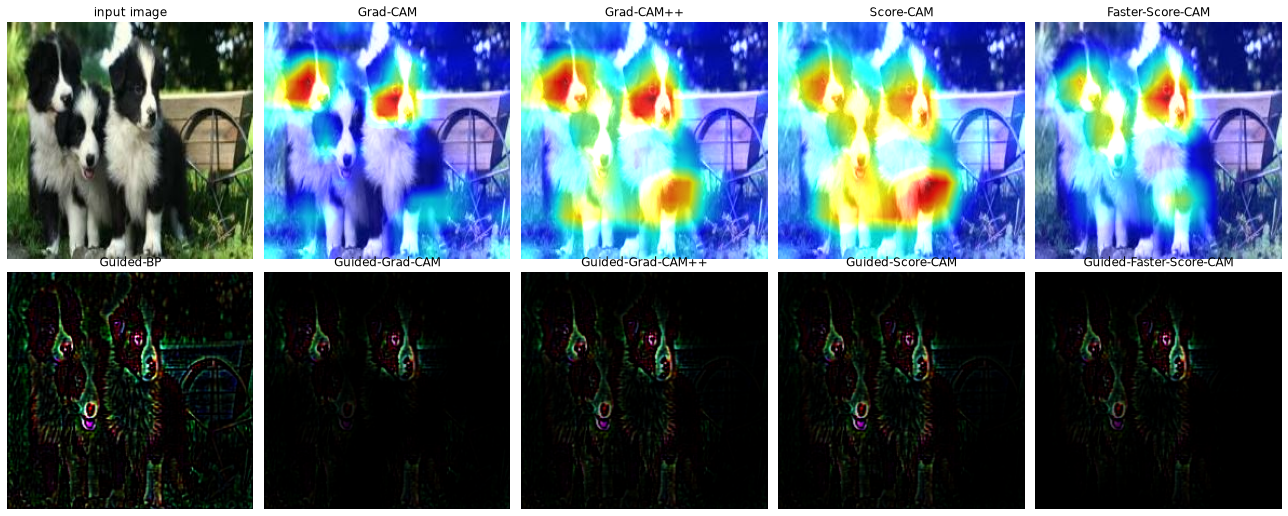
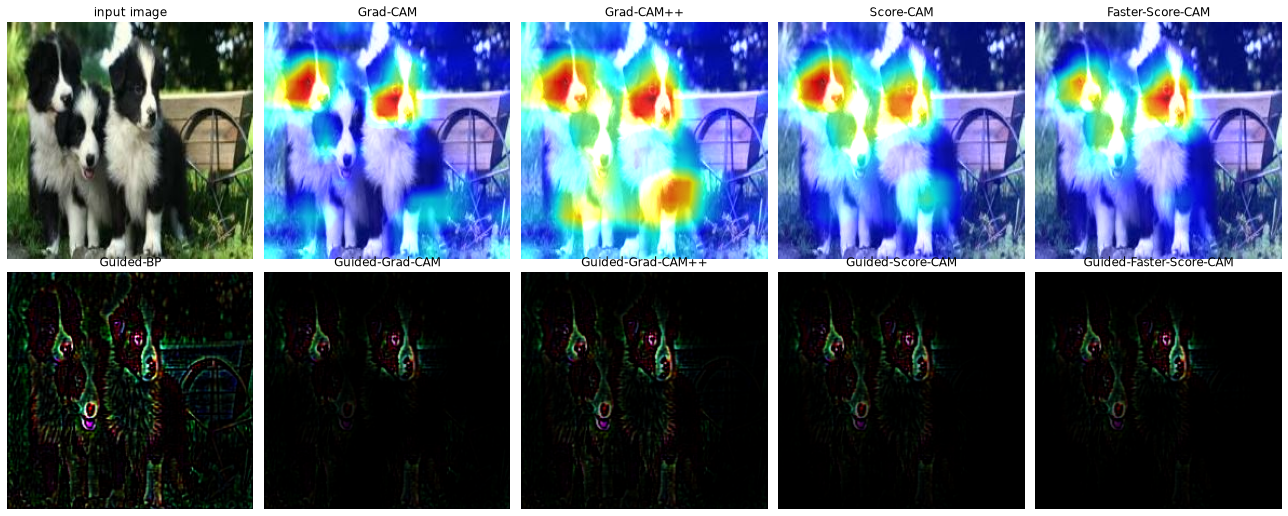
fix: Score-CAM weighted by a double softmax
`weight_mode="reference"` is meant to reproduce the authors' released code,
which computes its channel weights as softmax(logits)[target] -- the target
class probability under each masked input. A Torch model emits logits, so that
is one softmax.

A Keras classifier ends in a softmax, so applying our own on top of
model output applied it twice. Exponentiating probabilities, which live in
[0, 1], compresses the weights towards uniform: measured on VGG16 /
block5_conv3 / hummingbird.jpg, 487.3 of 512 effective channels, against 159.6
once corrected. Score-CAM was weighting so weakly it was close to an
unweighted mean of the activation maps. The maps still correlate at r=0.993,
because the activation maps are themselves correlated, which is why this went
unnoticed.

Both weight modes now derive from logits, so a model that ends in softmax and
one that ends in a linear layer behave identically.

Also:

- scorecam.diagnostics measured with raw-pixel masking while ScoreCam defaults
  to masking the preprocessed tensor, so the two disagreed about the same
  model. Diagnostics now matches the ScoreCam defaults, with --paper-mask to
  opt into the other. The published numbers are re-measured under the defaults:
  "paper" 2.5 effective channels of 512 either way, "reference" 159.6.
- result/*.png and image/sample_output.png regenerated.

Changed region(s): [[0.5901, 0.031, 0.9627, 0.5271], [0.6522, 0.7752, 0.6832, 0.8372], [0.7143, 0.8062, 0.7453, 0.8372]]

diff --git a/scorecam/score_cam.py b/scorecam/score_cam.py
@@ -11,7 +11,7 @@ including the ones in this repository's README -- was produced with. Opt into
 the literal paper behaviour explicitly; the second note below explains why it is
 not the default.
 
-1. ``mask_target`` -- what the upsampled mask multiplies.
+1. What the upsampled mask multiplies (``raw_img_array`` / ``preprocess_fn``).
    Algorithm 1 writes ``M_l^k <- s(Up(A_l^k)) o X_0``, the Hadamard product with
    the input *image*. The reference code multiplies the already-normalised
    tensor instead. The difference is the implied baseline: masking raw pixels
@@ -27,8 +27,14 @@ not the default.
        alpha_k^c = exp(S_k^c) / sum_k exp(S_k^c)
 
    The reference code instead takes the softmax over *classes* and reads off the
-   target-class probability. ``weight_mode="paper"`` implements the former,
-   ``"reference"`` the latter (and reproduces this repository's pre-v0.2 output).
+   target-class probability, i.e. ``alpha_k^c = P(c | M_k)``.
+   ``weight_mode="paper"`` implements the former, ``"reference"`` the latter.
+
+   Both modes are computed from logits. A Keras classifier usually *ends* in a
+   softmax, so the pre-v0.2 code -- which applied its own softmax on top of the
+   model's output -- was applying it twice, flattening the weights towards
+   uniform. Torch models emit logits, which is why the reference code gets this
+   right with a single softmax.
 
    Note that the baseline term ``f^c(X_b)`` is a constant with respect to ``k``
    and therefore cancels exactly inside the channel-wise softmax, so no baseline
@@ -38,16 +44,21 @@ not the default.
    Logits span a wide range, so exponentiating them concentrates almost all the
    mass on a couple of channels. Measured on VGG16 / ``block5_conv3`` with
    ``image/hummingbird.jpg``, where the target-class logits of the 512 masked
-   inputs run from -0.06 to 21.61::
+   inputs run from 1.29 to 20.54::
 
        weight_mode   largest weight   top-10 share   effective channels exp(H)
-       "paper"                67.7 %         99.4 %            2.5 of 512
-       "reference"             2.2 %         22.4 %           79.0 of 512
+       "paper"                82.9 %         96.4 %            2.5 of 512
+       "reference"             1.4 %         13.5 %          159.6 of 512
 
    In other words, Algorithm 1 read literally makes Score-CAM little more than
    "show the two or three best channels", which is presumably why the authors'
    own code does something else. Reproduce the numbers above with
-   ``python -m scorecam.diagnostics`` if you want to check this on your model.
+   ``python -m scorecam.diagnostics`` (add ``--paper-mask`` to measure under
+   raw-pixel masking instead; the conclusion is the same, 2.5 either way).
+
+   For reference, the pre-v0.2 double softmax landed at 487.3 effective
+   channels -- so close to a plain unweighted mean of the activation maps that
+   it was barely Score-CAM at all.
 """
 
 import numpy as np
@@ -63,14 +74,11 @@ from ._common import (
 
 __all__ = ["ScoreCam"]
 
-_INTER_LINEAR = 1  # cv2.INTER_LINEAR, without importing cv2 at module scope
-
-
 def _resize(act_map, size_hw):
     import cv2
 
     height, width = size_hw
-    return cv2.resize(act_map, (width, height), interpolation=_INTER_LINEAR)
+    return cv2.resize(act_map, (width, height), interpolation=cv2.INTER_LINEAR)
 
 
 def _select_channels(act_map_array, max_N):
@@ -156,23 +164,24 @@ def ScoreCam(
         masked = base[0] * act_map[..., None]
         return preprocess_fn(masked.copy()) if mask_raw else masked
 
-    # 4. feed the masked inputs through the model, in batches
-    with logit_output(model, enabled=(weight_mode == "paper")):
-        scores = []
+    # 4. feed the masked inputs through the model, in batches, as logits
+    with logit_output(model):
+        logits = []
         for start in range(0, n_channels, batch_size):
             batch = np.stack(
                 [masked_input(k) for k in range(start, min(start + batch_size, n_channels))]
             )
-            scores.append(np.asarray(model(batch, training=False), dtype=np.float32))
-        scores = np.concatenate(scores, axis=0)
+            logits.append(np.asarray(model(batch, training=False), dtype=np.float32))
+        logits = np.concatenate(logits, axis=0)
 
     # 5. turn the target-class scores into channel weights
     if weight_mode == "paper":
-        # softmax over the channel axis of the target-class logits. The baseline
-        # term f^c(X_b) is constant in k and cancels here.
-        weights = softmax(scores[:, cls], axis=0)
+        # softmax over the channel axis. The baseline term f^c(X_b) is constant
+        # in k and cancels here, so it needs no forward pass of its own.
+        weights = softmax(logits[:, cls], axis=0)
     else:
-        weights = softmax(scores, axis=1)[:, cls]
+        # softmax over the class axis: the target-class probability P(c | M_k).
+        weights = softmax(logits, axis=1)[:, cls]
 
     # 6. ReLU over the linear combination of activation maps
     return rescale(np.dot(act_map_array[0], weights))

diff --git a/scorecam/diagnostics.py b/scorecam/diagnostics.py
@@ -63,8 +63,10 @@ def weight_concentration(model, img_array, layer_name, raw_img_array=None,
     probs = forward(False)
 
     modes = {
+        # Both are derived from logits: see the note in score_cam.py about the
+        # double softmax that a Keras model's own softmax output would cause.
         "paper": softmax(logits[:, cls], axis=0),
-        "reference": probs[:, cls] / max(float(probs[:, cls].sum()), 1e-12),
+        "reference": softmax(logits, axis=1)[:, cls],
     }
     stats = {
         "class_index": cls,
@@ -87,6 +89,11 @@ def _main():
     parser = argparse.ArgumentParser(description=__doc__)
     parser.add_argument("--image", default="./image/hummingbird.jpg")
     parser.add_argument("--layer", default="block5_conv3")
+    parser.add_argument(
+        "--paper-mask", action="store_true",
+        help="mask raw pixels as Algorithm 1 specifies, instead of the "
+             "preprocessed tensor that ScoreCam masks by default",
+    )
     args = parser.parse_args()
 
     from keras.applications.vgg16 import VGG16, preprocess_input
@@ -94,16 +101,17 @@ def _main():
     from .preprocess import read_and_preprocess_img, read_img
 
     model = VGG16(include_top=True, weights="imagenet")
+    paper_mask = (
+        dict(raw_img_array=read_img(args.image), preprocess_fn=preprocess_input)
+        if args.paper_mask else {}
+    )
     stats = weight_concentration(
-        model,
-        read_and_preprocess_img(args.image),
-        args.layer,
-        raw_img_array=read_img(args.image),
-        preprocess_fn=preprocess_input,
+        model, read_and_preprocess_img(args.image), args.layer, **paper_mask
     )
 
     print(f"{args.image}  layer={args.layer}  class={stats['class_index']}  "
-          f"channels={stats['n_channels']}")
+          f"channels={stats['n_channels']}  "
+          f"mask={'raw pixels' if args.paper_mask else 'preprocessed tensor'}")
     print(f"target-class logits: min={stats['logit_min']:.2f} "
           f"max={stats['logit_max']:.2f} std={stats['logit_std']:.2f}")
     print(f"{'weight_mode':<12}{'largest':>10}{'top-10':>10}{'exp(H)':>10}")

diff --git a/tests/test_score_cam.py b/tests/test_score_cam.py
@@ -5,6 +5,7 @@ import numpy as np
 import pytest
 
 from scorecam import ScoreCam
+from scorecam._common import activation_model, rescale, softmax
 from scorecam.preprocess import read_and_preprocess_img  # noqa: F401  (import smoke)
 from scorecam.score_cam import _select_channels
 
@@ -97,3 +98,37 @@ def test_weight_concentration_reports_both_modes(model, img_array):
         s = stats[mode]
         assert 0.0 < s["largest_weight"] <= 1.0
         assert 1.0 <= s["effective_channels"] <= N_FILTERS + 1e-6
+
+
+def test_reference_weights_are_class_probabilities_not_a_double_softmax(model, img_array):
+    """A Keras classifier ends in a softmax. The pre-v0.2 code applied its own
+    softmax on top of that output, flattening the weights towards uniform; the
+    authors' Torch code applies exactly one, to logits. Reproduce both and check
+    we match the latter."""
+    from scorecam._common import logit_output
+    from scorecam.score_cam import _resize
+
+    layer = model.get_layer(LAYER_NAME)
+    act = np.asarray(activation_model(model, LAYER_NAME)(img_array, training=False))
+    cls = int(np.argmax(model(img_array, training=False).numpy()))
+
+    masks = []
+    for k in range(act.shape[3]):
+        m = _resize(act[0, :, :, k], (32, 32))
+        lo, hi = float(m.min()), float(m.max())
+        m = (m - lo) / (hi - lo) if hi > lo else np.zeros_like(m)
+        masks.append(np.asarray(img_array, dtype=np.float32)[0] * m[..., None])
+    masks = np.stack(masks)
+
+    with logit_output(model):
+        logits = np.asarray(model(masks, training=False))
+    probs = np.asarray(model(masks, training=False))
+
+    single = softmax(logits, axis=1)[:, cls]     # what the reference code does
+    double = softmax(probs, axis=1)[:, cls]      # what pre-v0.2 did
+    assert not np.allclose(single, double)
+
+    expected = rescale(np.dot(act[0], single))
+    got = ScoreCam(model, img_array, LAYER_NAME, batch_size=4)
+    np.testing.assert_allclose(got, expected, atol=1e-5)
+    assert layer is model.get_layer(LAYER_NAME)

diff --git a/README.md b/README.md
@@ -110,19 +110,26 @@ arguments here, documented inline in
 read literally is close to degenerate: it exponentiates raw logits, which on a
 confident prediction concentrates nearly all the weight on a couple of channels.
 On VGG16 / `block5_conv3` / `hummingbird.jpg`, where the 512 masked inputs
-produce target-class logits spanning -0.06 to 21.61:
+produce target-class logits spanning 1.29 to 20.54:
 
 ```
 $ uv run python -m scorecam.diagnostics
 
 weight_mode    largest    top-10    exp(H)
-paper           67.7%     99.4%       2.5
-reference        2.2%     22.4%      79.0
+paper           82.9%     96.4%       2.5
+reference        1.4%     13.5%     159.6
 ```
 
 That is 2.5 effective channels out of 512 — Score-CAM reduces to "show the two
 or three best channels". Presumably why the authors' own code does something
 else. The two modes correlate at r=0.76.
+
+Note that both modes are computed from **logits**. A Keras classifier usually
+ends in a softmax, so the pre-v0.2 code — which applied its own softmax on top
+of the model's output — applied it twice and flattened the weights to 487 of 512
+effective channels, very nearly an unweighted mean of the activation maps. Torch
+models emit logits, which is why the reference code gets this right with one
+softmax.
 
 ## Results
 
